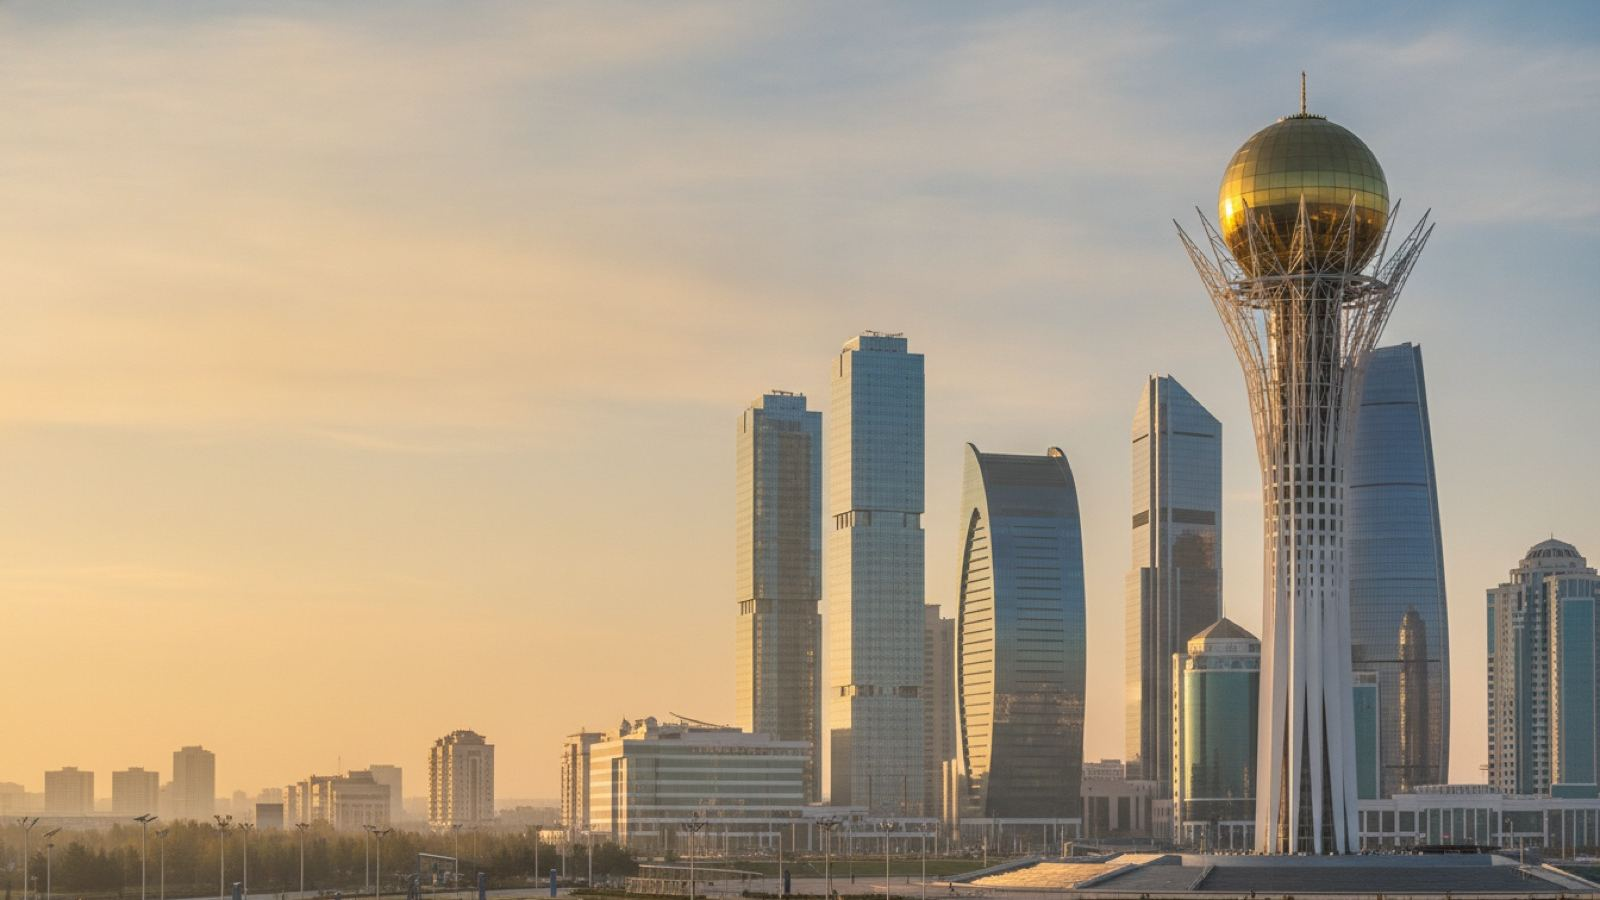
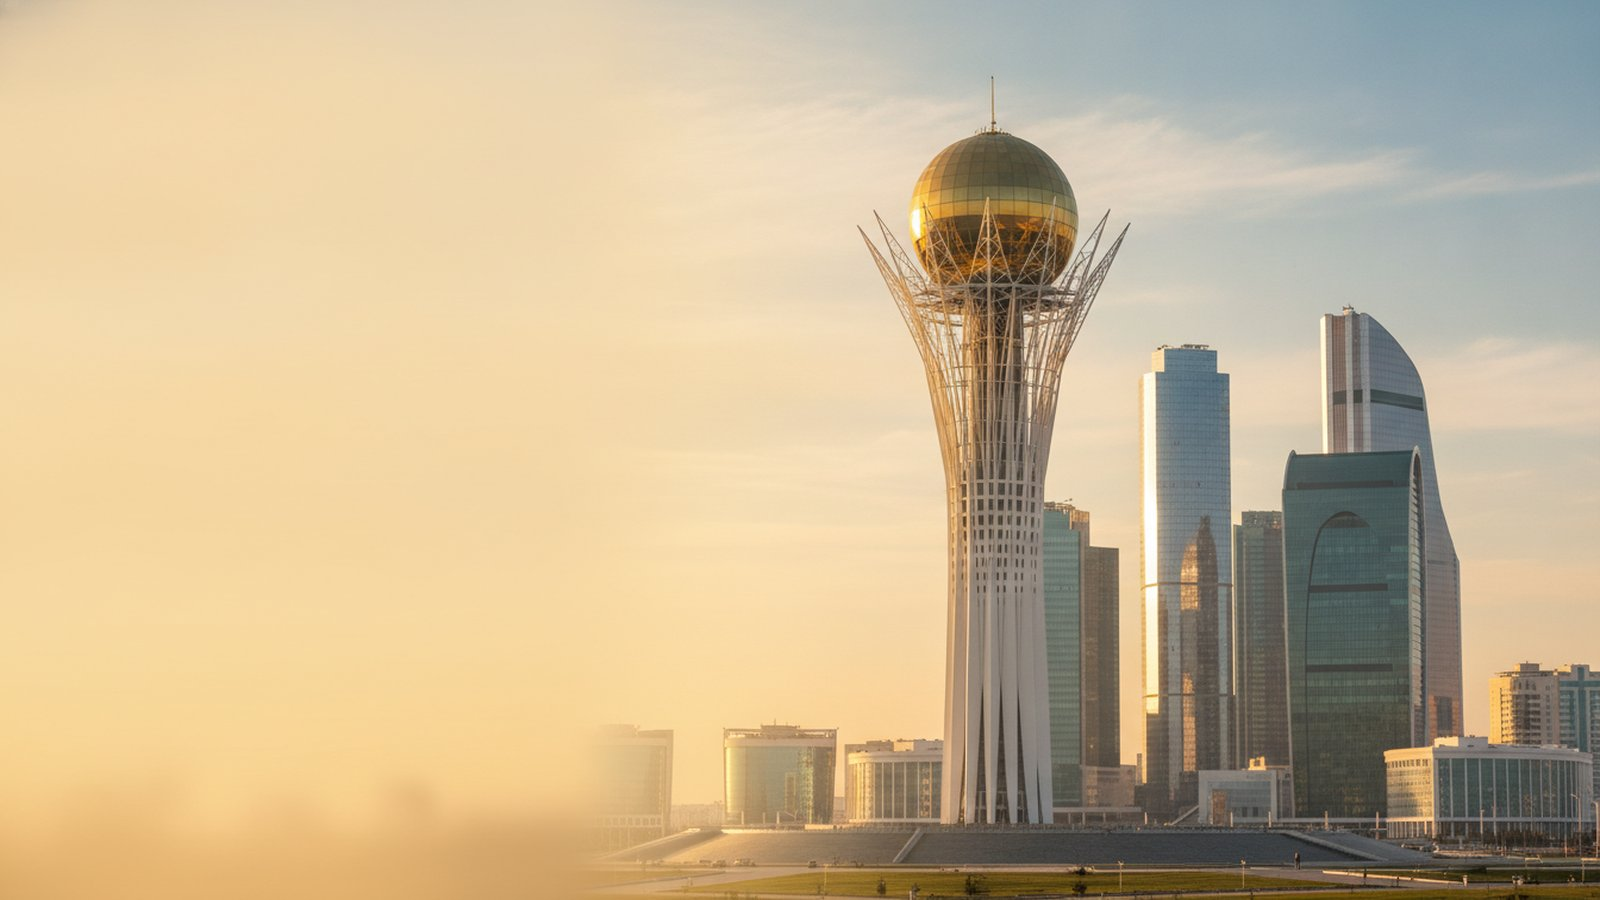
feat(media): hero A4 — монумент Байтерек в видимом окне вёрстки
Кадр с центром башни на ~58% ширины + сужен оверлей-градиент hero
(крем до 44%, прозрачно с 62%) — монумент читается между текстом
и карточкой, шар — над её верхней кромкой; текст остаётся на креме (AA)

diff --git a/frontend/src/pages/HomePage.tsx b/frontend/src/pages/HomePage.tsx
@@ -109,7 +109,7 @@ function HeroMedia() {
         <div style={{
           position: 'absolute', inset: 0,
           background:
-            'linear-gradient(90deg, var(--color-bg) 0%, var(--color-bg) 50%, color-mix(in srgb, var(--color-bg) 55%, transparent) 66%, transparent 85%)',
+            'linear-gradient(90deg, var(--color-bg) 0%, var(--color-bg) 44%, color-mix(in srgb, var(--color-bg) 45%, transparent) 54%, transparent 62%)',
         }} />
       )}
       {/* Нижний мягкий стык с секцией. */}